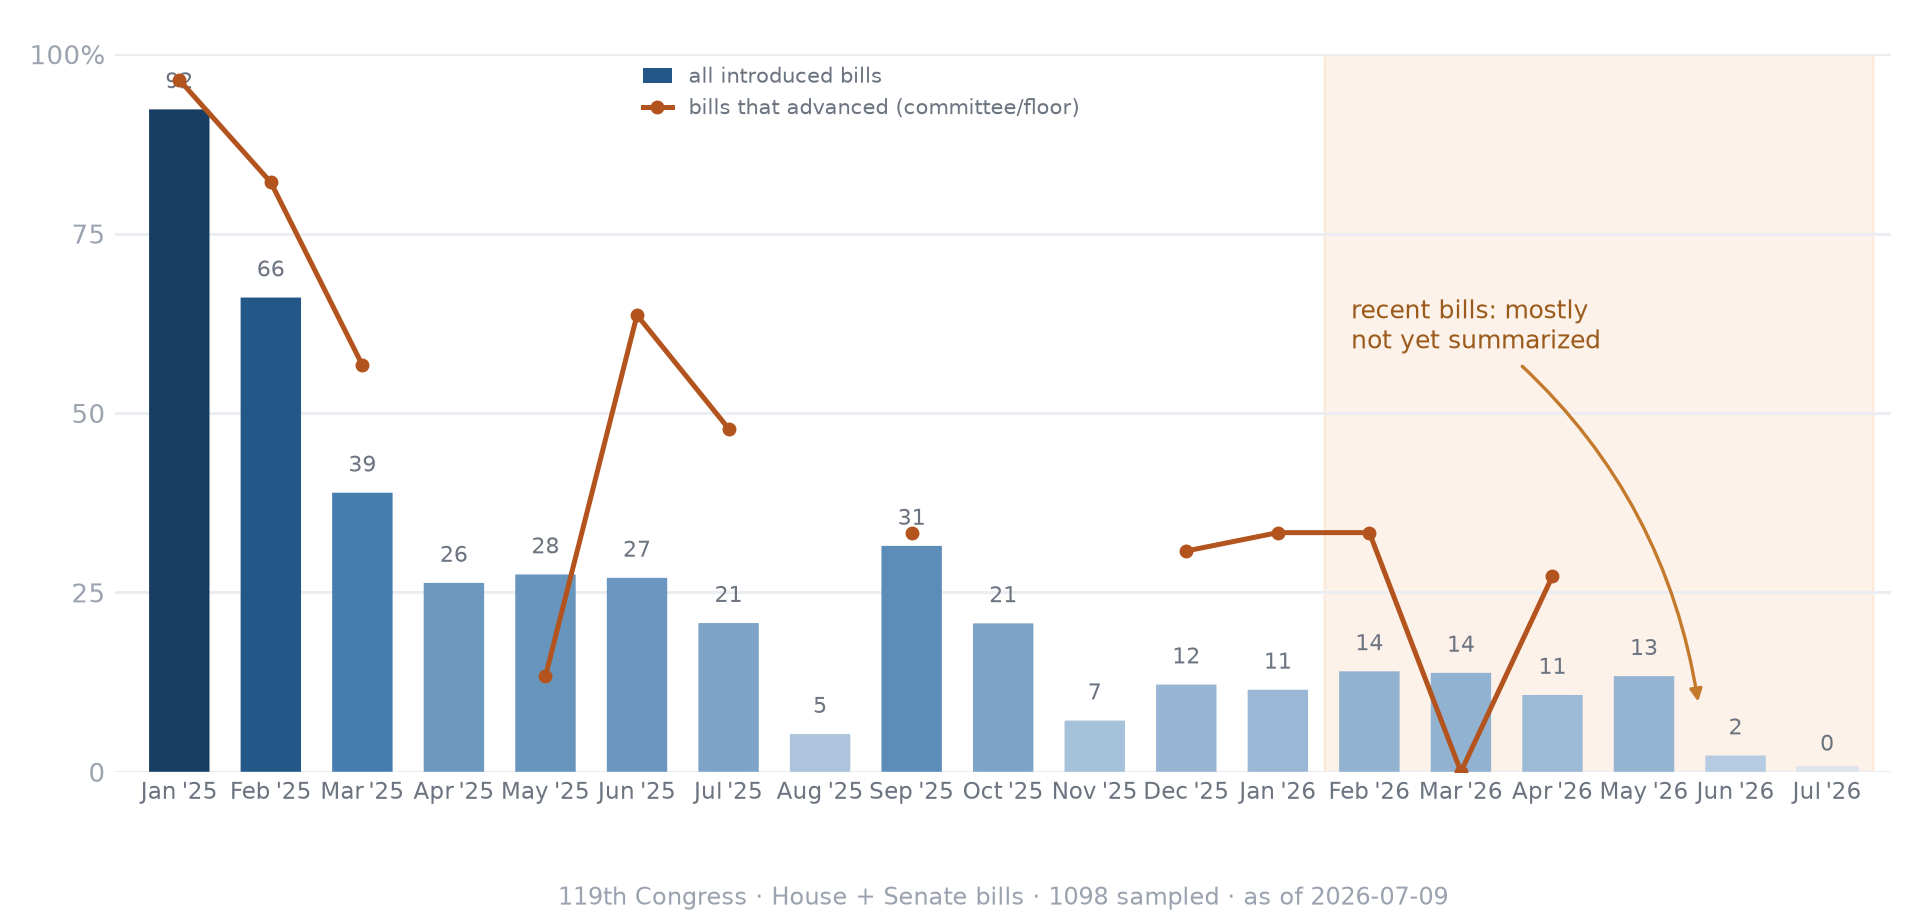
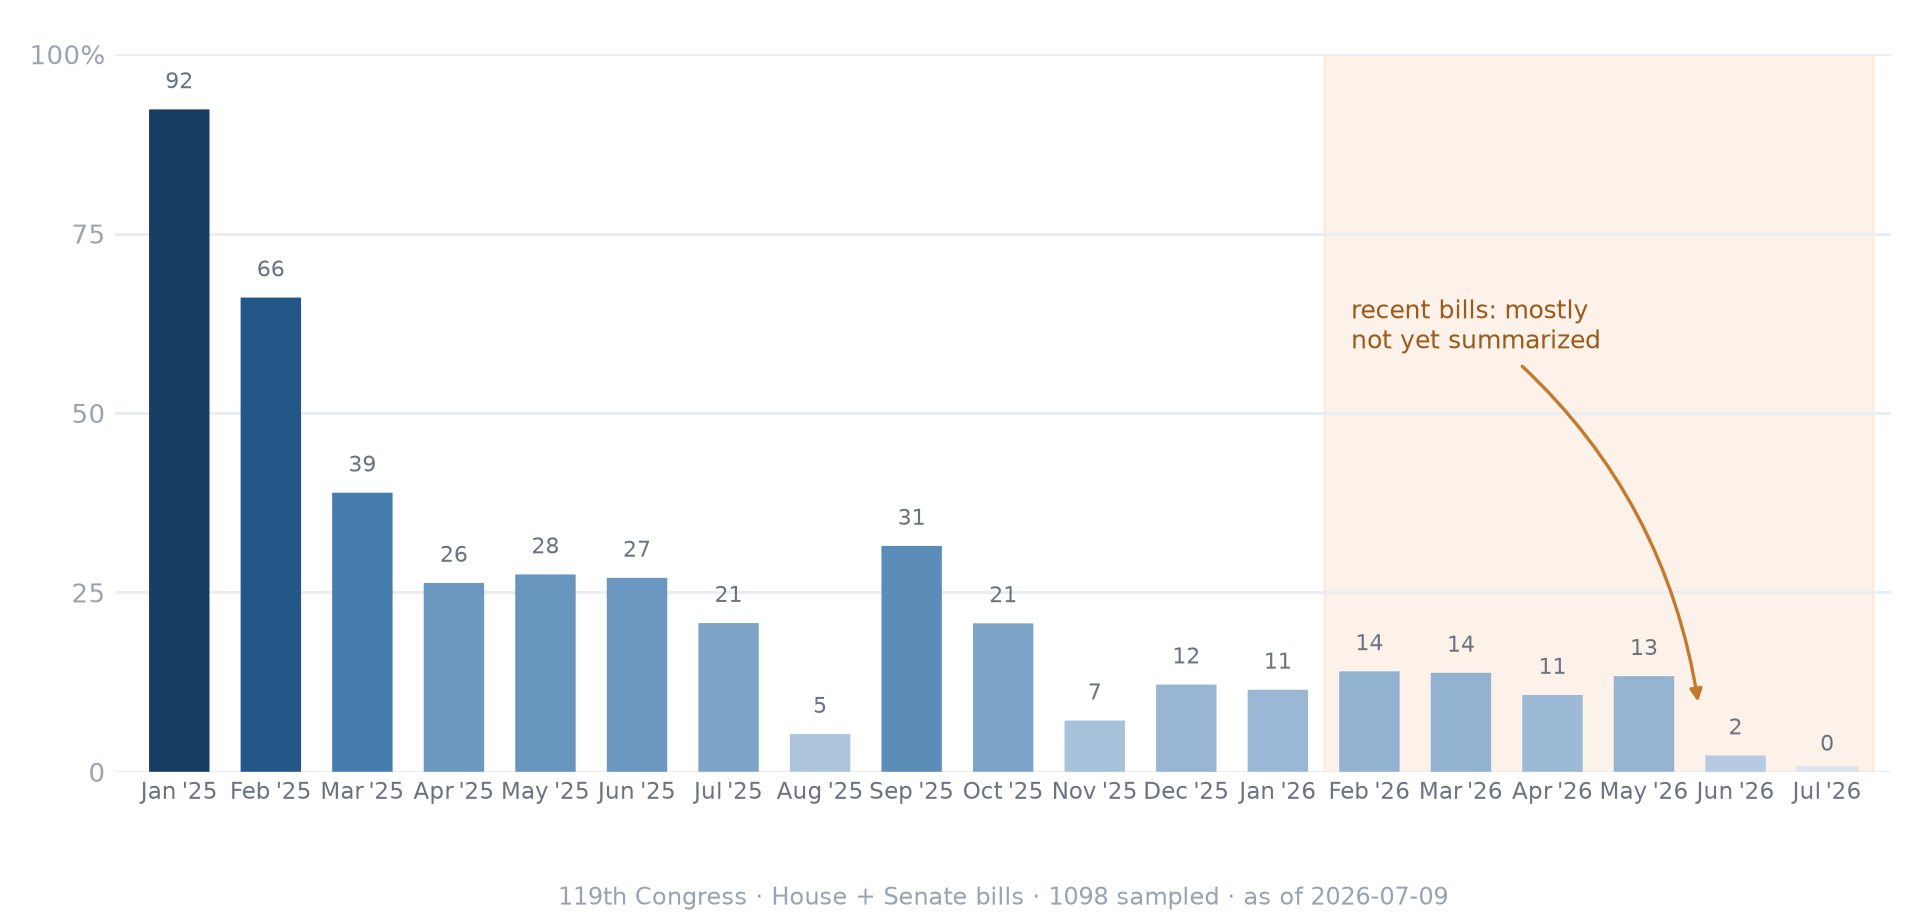
Lag page: split into two clean charts; drop the noisy monthly overlay (#6)
The monthly 'advanced bills' overlay line was misleading: with only ~10-30
advanced bills sampled per month it was statistically noisy, dipped below the
all-bills bars (nonsensical), and its below-threshold gaps read as broken
rendering. Removed it.

The stage story now lives in its own chart, crs-lag-stages.png: a clean
horizontal bar chart from the FULL census (not the thin monthly sample) —
reached the floor 95% (601/631), committee action 35% (471/1,336), introduced
only 25% (3,174/12,562). lag.html gains a 'Coverage by legislative stage'
section above the (now overlay-free) 'Coverage by month of introduction' chart.

plot_lag.py: new plot_stages() writes the second PNG (no-op when a lag.json has
no stages block, so old data still renders the monthly chart alone); added
--stages-out. Tests updated: monthly chart never draws an overlay line; the
stages chart is written only when the census block is present, with bar widths
matching the census percentages.

Claude-Session: https://claude.ai/code/session_01AW3Ac5hqtSWnUr1gG9N3MG

diff --git a/docs/lag.html b/docs/lag.html
@@ -31,8 +31,20 @@
   <p class="count" id="lag-meta">Loading…</p>
   <div id="lag-stats" class="stat-grid"></div>
 
+  <h2>Coverage by legislative stage</h2>
+  <p style="margin:0 0 12px;color:var(--muted)">The clearest cut: classify every House and Senate
+  bill by how far it got, then ask what share CRS has summarized. Coverage rises sharply the further
+  a bill advances — from a quarter of bills that never leave introduction to nearly all that reach
+  the floor.</p>
   <div class="card" style="padding:16px 18px">
-    <img src="assets/crs-lag.png" alt="Bar chart: share of 119th-Congress bills with a CRS summary by month of introduction, falling from about 92% for January 2025 to near 0% for mid-2026. An overlay line for advanced (floor-reaching) bills appears once the chart data is regenerated with per-stage figures." style="width:100%;height:auto;display:block">
+    <img src="assets/crs-lag-stages.png" alt="Horizontal bar chart: CRS summary coverage by furthest legislative stage reached — bills that reached the floor 95% (601 of 631), bills with committee action 35% (471 of 1,336), bills introduced only 25% (3,174 of 12,562)." style="width:100%;height:auto;display:block">
+  </div>
+
+  <h2>Coverage by month of introduction</h2>
+  <p style="margin:0 0 12px;color:var(--muted)">The timing lag, from a random sample of bills: recent
+  bills have barely been summarized yet, and coverage builds only over a year or more.</p>
+  <div class="card" style="padding:16px 18px">
+    <img src="assets/crs-lag.png" alt="Bar chart: share of 119th-Congress bills with a CRS summary by month of introduction, falling from about 92% for January 2025 to near 0% for mid-2026." style="width:100%;height:auto;display:block">
   </div>
 
   <h2>What this shows</h2>

diff --git a/src/plot_lag.py b/src/plot_lag.py
@@ -1,12 +1,20 @@
-"""Render docs/data/lag.json as a polished chart image (docs/assets/crs-lag.png).
+"""Render docs/data/lag.json as polished chart images.
 
-Keeps the website dependency-free: matplotlib draws the chart here, the site just shows
-the resulting PNG. Run after analyze_lag.py.
+Two charts, so each tells one clean story instead of overloading a single plot:
+- docs/assets/crs-lag.png        — coverage by month of introduction (the timing lag),
+                                    from the random sample.
+- docs/assets/crs-lag-stages.png — coverage by furthest legislative stage reached
+                                    (introduced / committee / floor), from the FULL
+                                    census. This is the reliable "CRS covers what moves"
+                                    signal; the per-month sample is too thin to show it
+                                    over time, so it lives in its own bar chart.
+
+Keeps the website dependency-free: matplotlib draws the charts here, the site just shows
+the resulting PNGs. Run after analyze_lag.py.
 """
 from __future__ import annotations
 
 import json
-import math
 import sys
 from datetime import datetime
 from pathlib import Path
@@ -17,7 +25,7 @@ matplotlib.use("Agg")
 import matplotlib.pyplot as plt  # noqa: E402
 from matplotlib import font_manager  # noqa: E402
 from matplotlib.colors import LinearSegmentedColormap  # noqa: E402
-from matplotlib.patches import FancyBboxPatch, Patch  # noqa: E402
+from matplotlib.patches import FancyBboxPatch  # noqa: E402
 
 sys.path.insert(0, str(Path(__file__).resolve().parent))
 import common as C  # noqa: E402
@@ -28,9 +36,13 @@ FAINT = "#9aa3af"
 GRID = "#eaedf1"
 # light slate -> deep navy, so taller (better-covered) bars read darker
 CMAP = LinearSegmentedColormap.from_list("crsnavy", ["#bcd0e4", "#2b6aa3", "#173a5e"])
-# warm rust for the "advanced bills" overlay line, distinct from the navy bars
-ADVANCED_COLOR = "#b3541e"
-ADVANCED_MIN_N = 10
+
+# stage-chart rows, top to bottom (furthest-advanced first)
+STAGE_ROWS = [
+    ("floor", "Reached the floor"),
+    ("committee", "Committee action"),
+    ("introduced", "Introduced only"),
+]
 
 for fam in ("Helvetica Neue", "Helvetica", "Arial", "DejaVu Sans"):
     if any(fam in f.name for f in font_manager.fontManager.ttflist):
@@ -51,31 +63,77 @@ def rounded_bars(ax, xs, vals, width=0.66, radius=0.10):
             facecolor=CMAP(min(1.0, v / 95)), zorder=3))
 
 
-def main(data_path: Path | None = None, out_path: Path | None = None) -> plt.Figure:
+def plot_stages(d: dict, out_path: Path) -> plt.Figure | None:
+    """Horizontal bar chart of CRS coverage by furthest legislative stage reached.
+
+    Uses the full-census `stages` block (every hr/s bill classified), not the monthly
+    sample — this is the clean "CRS covers what moves" signal. Returns None (writes
+    nothing) if the data has no stages block, so old lag.json files are unaffected.
+    """
+    stages = d.get("stages")
+    if not stages:
+        return None
+    rows = [(label, stages[key]) for key, label in STAGE_ROWS if stages.get(key)]
+    if not rows:
+        return None
+
+    fig, ax = plt.subplots(figsize=(9.6, 2.7), dpi=200)
+    fig.patch.set_facecolor("white")
+    ax.set_facecolor("white")
+
+    ys = list(range(len(rows)))[::-1]  # first row (floor) on top
+    for y, (label, s) in zip(ys, rows):
+        pct = (s.get("pct") or 0) * 100
+        ax.add_patch(FancyBboxPatch(
+            (0, y - 0.28), max(pct, 0.4), 0.56,
+            boxstyle="round,pad=0,rounding_size=0.11",
+            mutation_aspect=0.5, linewidth=0,
+            facecolor=CMAP(min(1.0, pct / 95)), zorder=3))
+        # value + count stacked just past the bar end; clip_on=False lets the long
+        # floor bar's label render into the right margin instead of being cut off.
+        ax.text(pct + 2, y + 0.10, f"{round(pct)}%", ha="left", va="center",
+                fontsize=13, color=INK, fontweight="bold", clip_on=False)
+        summ, total = s.get("summarized", 0), s.get("total", 0)
+        ax.text(pct + 2.2, y - 0.24, f"{summ:,} of {total:,}", ha="left", va="center",
+                fontsize=8, color=FAINT, clip_on=False)
+
+    ax.set_xlim(0, 100)
+    ax.set_ylim(-0.6, len(rows) - 0.4)
+    ax.set_yticks(ys)
+    ax.set_yticklabels([label for label, _ in rows], fontsize=11, color=INK)
+    ax.set_xticks([0, 25, 50, 75, 100])
+    ax.set_xticklabels(["0", "25", "50", "75", "100%"], fontsize=9, color=FAINT)
+    ax.tick_params(length=0)
+    ax.grid(axis="x", color=GRID, linewidth=1.1, zorder=0)
+    for spine in ax.spines.values():
+        spine.set_visible(False)
+
+    asof = d.get("generated_at", "").split(" ")[0]
+    ax.text(0.0, -0.32,
+            f"119th Congress · every House + Senate bill classified by furthest stage "
+            f"reached (full census) · as of {asof}",
+            transform=ax.transAxes, ha="left", va="top", fontsize=8.5, color=FAINT)
+
+    fig.subplots_adjust(top=0.96, bottom=0.22, left=0.17, right=0.90)
+    fig.savefig(out_path, facecolor="white")
+    print(f"wrote {out_path}")
+    return fig
+
+
+def main(data_path: Path | None = None, out_path: Path | None = None,
+         stages_out: Path | None = None) -> plt.Figure:
     if data_path is None:
         data_path = C.DOCS_DATA / "lag.json"
     if out_path is None:
         out_path = C.ROOT / "docs" / "assets" / "crs-lag.png"
+    if stages_out is None:
+        stages_out = C.ROOT / "docs" / "assets" / "crs-lag-stages.png"
 
     d = json.load(open(data_path))
     months = d["months"]
     labels = [datetime.strptime(m["month"], "%Y-%m").strftime("%b '%y") for m in months]
     cov = [m["coverage"] * 100 for m in months]
     xs = list(range(len(cov)))
-
-    # optional overlay: coverage among bills that advanced (committee/floor action).
-    # only plotted for months with enough advanced bills to be meaningful; other
-    # months get a NaN so the line has a gap there instead of interpolating over them.
-    advanced_cov: list[float] = []
-    has_advanced = False
-    for m in months:
-        ac = m.get("advanced_coverage")
-        an = m.get("advanced_n") or 0
-        if ac is not None and an >= ADVANCED_MIN_N:
-            has_advanced = True
-            advanced_cov.append(ac * 100)
-        else:
-            advanced_cov.append(math.nan)
 
     fig, ax = plt.subplots(figsize=(9.6, 4.6), dpi=200)
     fig.patch.set_facecolor("white")
@@ -85,17 +143,6 @@ def main(data_path: Path | None = None, out_path: Path | None = None) -> plt.Fig
     for x, v in zip(xs, cov):
         ax.text(x, v + 2.2, f"{round(v)}", ha="center", va="bottom",
                 fontsize=8, color=MUTED)
-
-    if has_advanced:
-        line, = ax.plot(
-            xs, advanced_cov, color=ADVANCED_COLOR, linewidth=1.8,
-            marker="o", markersize=4, zorder=5,
-            label="bills that advanced (committee/floor)")
-        bar_proxy = Patch(facecolor=CMAP(0.7), label="all introduced bills")
-        # upper-center gap, clear of the tall early bars and the recent-bills callout
-        ax.legend(handles=[bar_proxy, line], loc="upper center",
-                  bbox_to_anchor=(0.42, 1.0), frameon=False,
-                  fontsize=7.5, labelcolor=MUTED, handlelength=1.4, borderaxespad=0.2)
 
     ax.set_xlim(-0.7, len(cov) - 0.3)
     ax.set_ylim(0, 100)
@@ -126,6 +173,9 @@ def main(data_path: Path | None = None, out_path: Path | None = None) -> plt.Fig
     fig.subplots_adjust(top=0.94, bottom=0.16, left=0.06, right=0.985)
     fig.savefig(out_path, facecolor="white")
     print(f"wrote {out_path}")
+
+    # second chart: coverage by legislative stage (from the census). No-op on old data.
+    plot_stages(d, stages_out)
     return fig
 
 
@@ -136,6 +186,9 @@ if __name__ == "__main__":
     parser.add_argument("--data", type=Path, default=C.DOCS_DATA / "lag.json",
                          help="path to lag.json (default: docs/data/lag.json)")
     parser.add_argument("--out", type=Path, default=C.ROOT / "docs" / "assets" / "crs-lag.png",
-                         help="path to write the chart PNG (default: docs/assets/crs-lag.png)")
+                         help="path to write the monthly chart PNG (default: docs/assets/crs-lag.png)")
+    parser.add_argument("--stages-out", type=Path,
+                         default=C.ROOT / "docs" / "assets" / "crs-lag-stages.png",
+                         help="path to write the stage-coverage chart PNG")
     args = parser.parse_args()
-    main(args.data, args.out)
+    main(args.data, args.out, args.stages_out)

diff --git a/tests/test_plot_lag.py b/tests/test_plot_lag.py
@@ -1,10 +1,9 @@
-"""Tests for src/plot_lag.py: rendering docs/data/lag.json to a chart PNG.
+"""Tests for src/plot_lag.py: rendering docs/data/lag.json to chart PNGs.
 
-Covers both the old lag.json shape (no advanced-bills fields) and the new shape
-(additive advanced_n/advanced_summarized/advanced_coverage per month, plus a
-top-level stages block) — the old shape must render identically to today's
-chart (no overlay line, no legend), and the new shape must draw the rust-colored
-"advanced" overlay line only for months with enough advanced bills.
+The monthly chart is always just clean coverage-by-month bars (no overlay line).
+The stage-coverage story lives in a SEPARATE horizontal bar chart drawn from the
+`stages` census block — produced only when that block is present, so old lag.json
+files (without stages) still render the monthly chart and simply skip the second one.
 """
 from __future__ import annotations
 
@@ -45,23 +44,15 @@ def _old_shape_lag() -> dict:
 
 def _new_shape_lag() -> dict:
     d = _old_shape_lag()
-    for i, m in enumerate(d["months"]):
-        # alternate between well-sampled months (>= threshold) and thin months
-        # (below the ADVANCED_MIN_N threshold) so the overlay line has a gap.
-        advanced_n = 25 if i % 2 == 0 else 3
-        advanced_summarized = int(advanced_n * (0.4 + 0.03 * i))
-        m["advanced_n"] = advanced_n
-        m["advanced_summarized"] = advanced_summarized
-        m["advanced_coverage"] = advanced_summarized / advanced_n
     d["stages"] = {
-        "floor": {"total": 300, "summarized": 291, "pct": 0.97},
-        "committee": {"total": 900, "summarized": 500, "pct": 0.556},
-        "introduced": {"total": 9000, "summarized": 2700, "pct": 0.3},
+        "floor": {"total": 631, "summarized": 601, "pct": 0.952},
+        "committee": {"total": 1336, "summarized": 471, "pct": 0.352},
+        "introduced": {"total": 12562, "summarized": 3174, "pct": 0.253},
     }
     return d
 
 
-def test_old_shape_renders_png_without_error(tmp_path: Path) -> None:
+def test_monthly_chart_renders_without_error(tmp_path: Path) -> None:
     data_path = tmp_path / "lag.json"
     out_path = tmp_path / "crs-lag.png"
     data_path.write_text(json.dumps(_old_shape_lag()))
@@ -73,59 +64,59 @@ def test_old_shape_renders_png_without_error(tmp_path: Path) -> None:
     assert fig is not None
 
 
-def test_old_shape_has_no_advanced_overlay_or_legend(tmp_path: Path) -> None:
+def test_monthly_chart_has_no_overlay_line_or_legend(tmp_path: Path) -> None:
+    # the monthly chart is always clean bars — no overlay line, regardless of
+    # whether the data carries the stages block.
+    for shape in (_old_shape_lag(), _new_shape_lag()):
+        data_path = tmp_path / "lag.json"
+        out_path = tmp_path / "crs-lag.png"
+        data_path.write_text(json.dumps(shape))
+
+        fig = P.main(data_path, out_path)
+        ax = fig.axes[0]
+
+        assert len(ax.lines) == 0
+        assert ax.get_legend() is None
+
+
+def test_old_shape_writes_no_stages_chart(tmp_path: Path) -> None:
     data_path = tmp_path / "lag.json"
     out_path = tmp_path / "crs-lag.png"
+    stages_out = tmp_path / "crs-lag-stages.png"
     data_path.write_text(json.dumps(_old_shape_lag()))
 
-    fig = P.main(data_path, out_path)
-    ax = fig.axes[0]
+    P.main(data_path, out_path, stages_out)
 
-    # bars are patches, not Line2D objects, so an unmodified chart has no lines
-    assert len(ax.lines) == 0
-    assert ax.get_legend() is None
+    assert out_path.exists()          # monthly chart still drawn
+    assert not stages_out.exists()    # no stages block -> no second chart
 
 
-def test_new_shape_renders_png_without_error(tmp_path: Path) -> None:
+def test_new_shape_writes_stages_chart(tmp_path: Path) -> None:
     data_path = tmp_path / "lag.json"
     out_path = tmp_path / "crs-lag.png"
+    stages_out = tmp_path / "crs-lag-stages.png"
     data_path.write_text(json.dumps(_new_shape_lag()))
 
-    fig = P.main(data_path, out_path)
+    P.main(data_path, out_path, stages_out)
 
-    assert out_path.exists()
-    assert out_path.stat().st_size > 0
-
-
-def test_new_shape_draws_advanced_overlay_line(tmp_path: Path) -> None:
-    data_path = tmp_path / "lag.json"
-    out_path = tmp_path / "crs-lag.png"
-    data_path.write_text(json.dumps(_new_shape_lag()))
-
-    fig = P.main(data_path, out_path)
-    ax = fig.axes[0]
-
-    assert len(ax.lines) == 1
-    line = ax.lines[0]
-    assert line.get_color() == P.ADVANCED_COLOR
-    assert ax.get_legend() is not None
+    assert stages_out.exists()
+    assert stages_out.stat().st_size > 0
 
 
-def test_new_shape_overlay_has_gaps_below_threshold(tmp_path: Path) -> None:
-    data_path = tmp_path / "lag.json"
-    out_path = tmp_path / "crs-lag.png"
+def test_plot_stages_bars_match_census(tmp_path: Path) -> None:
+    stages_out = tmp_path / "crs-lag-stages.png"
     d = _new_shape_lag()
-    data_path.write_text(json.dumps(d))
 
-    fig = P.main(data_path, out_path)
-    line = fig.axes[0].lines[0]
-    ydata = line.get_ydata()
+    fig = P.plot_stages(d, stages_out)
+    ax = fig.axes[0]
 
-    # months with advanced_n below ADVANCED_MIN_N (the odd-indexed months, set to
-    # 3 above) should be NaN gaps rather than interpolated values.
-    for i, m in enumerate(d["months"]):
-        if m["advanced_n"] < P.ADVANCED_MIN_N:
-            assert ydata[i] != ydata[i]  # NaN != NaN
-        else:
-            assert ydata[i] == pytest.approx(m["advanced_coverage"] * 100)
+    # one rounded bar patch per stage, widths proportional to pct
+    from matplotlib.patches import FancyBboxPatch
+    widths = sorted(p.get_width() for p in ax.patches if isinstance(p, FancyBboxPatch))
+    assert widths == pytest.approx([25.3, 35.2, 95.2], abs=0.5)
+
+
+def test_plot_stages_returns_none_without_stages(tmp_path: Path) -> None:
+    assert P.plot_stages(_old_shape_lag(), tmp_path / "x.png") is None
+    assert not (tmp_path / "x.png").exists()
 

diff --git a/CHANGELOG.md b/CHANGELOG.md
@@ -19,7 +19,9 @@ parallel Claude Code subagents. 137 offline tests pass (`pytest tests/`).
   bill's latest action (the random sample alone was too sparse to measure floor bills),
   plus per-stage coverage and a census-vs-full-history classifier agreement check. Added
   `--out` and an offline `--fixture` dry-run mode.
-- `src/plot_lag.py` overlays an "advanced bills" coverage line on the monthly chart;
+- `src/plot_lag.py` now renders **two** charts: coverage by month of introduction
+  (`crs-lag.png`, the timing lag) and a separate coverage-by-stage bar chart
+  (`crs-lag-stages.png`, from the census — the clean "CRS covers what moves" signal).
   `docs/lag.html` and `initLag()` reframe the headline around coverage of bills that move.
 - **Real data (live API, 1,098 bills sampled):** floor **95.2%** (601/631), committee
   **35.2%** (471/1,336), introduced-only **25.3%** (3,174/12,562); classifiers agree

diff --git a/README.md b/README.md
@@ -107,8 +107,9 @@ tested offline.
 
 - **CRS lag page** (issue #6): `python src/analyze_lag.py && python src/plot_lag.py` — now also runs
   a latest-action census of every hr/s bill (~60 list requests) plus the sampled bills' action
-  histories (~1.1k requests) to produce per-stage coverage (floor / committee / introduced) and the
-  advanced-bills overlay on the chart.
+  histories (~1.1k requests) to produce per-stage coverage (floor / committee / introduced).
+  `plot_lag.py` writes two charts: `crs-lag.png` (coverage by month) and `crs-lag-stages.png`
+  (coverage by legislative stage, from the census).
 - **Reading levels** (issue #10): `python src/run_models.py --levels eli5,expert` then
   `python src/report.py` (per dataset, with the usual `CRS_DATASET`/`CRS_CONFIG` pair) — ~500
   generation calls per dataset for the two extra levels; no re-judging needed (only the default
